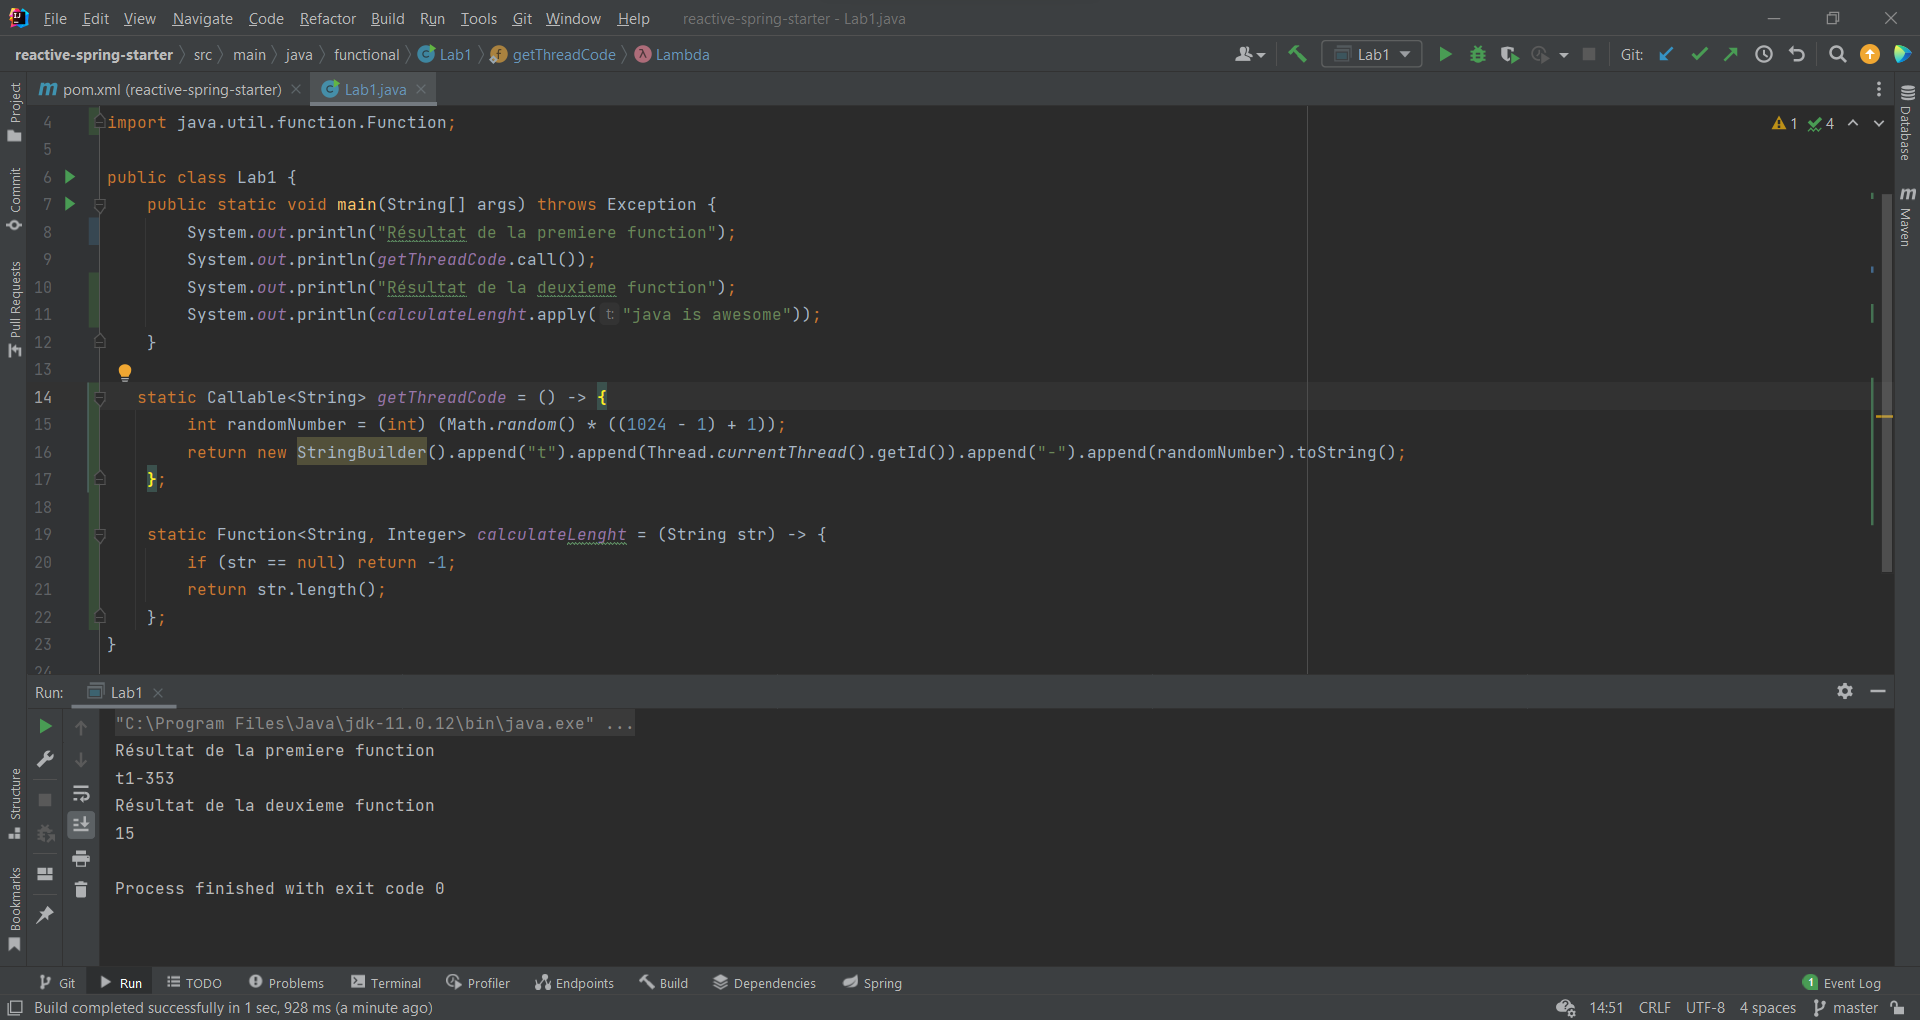
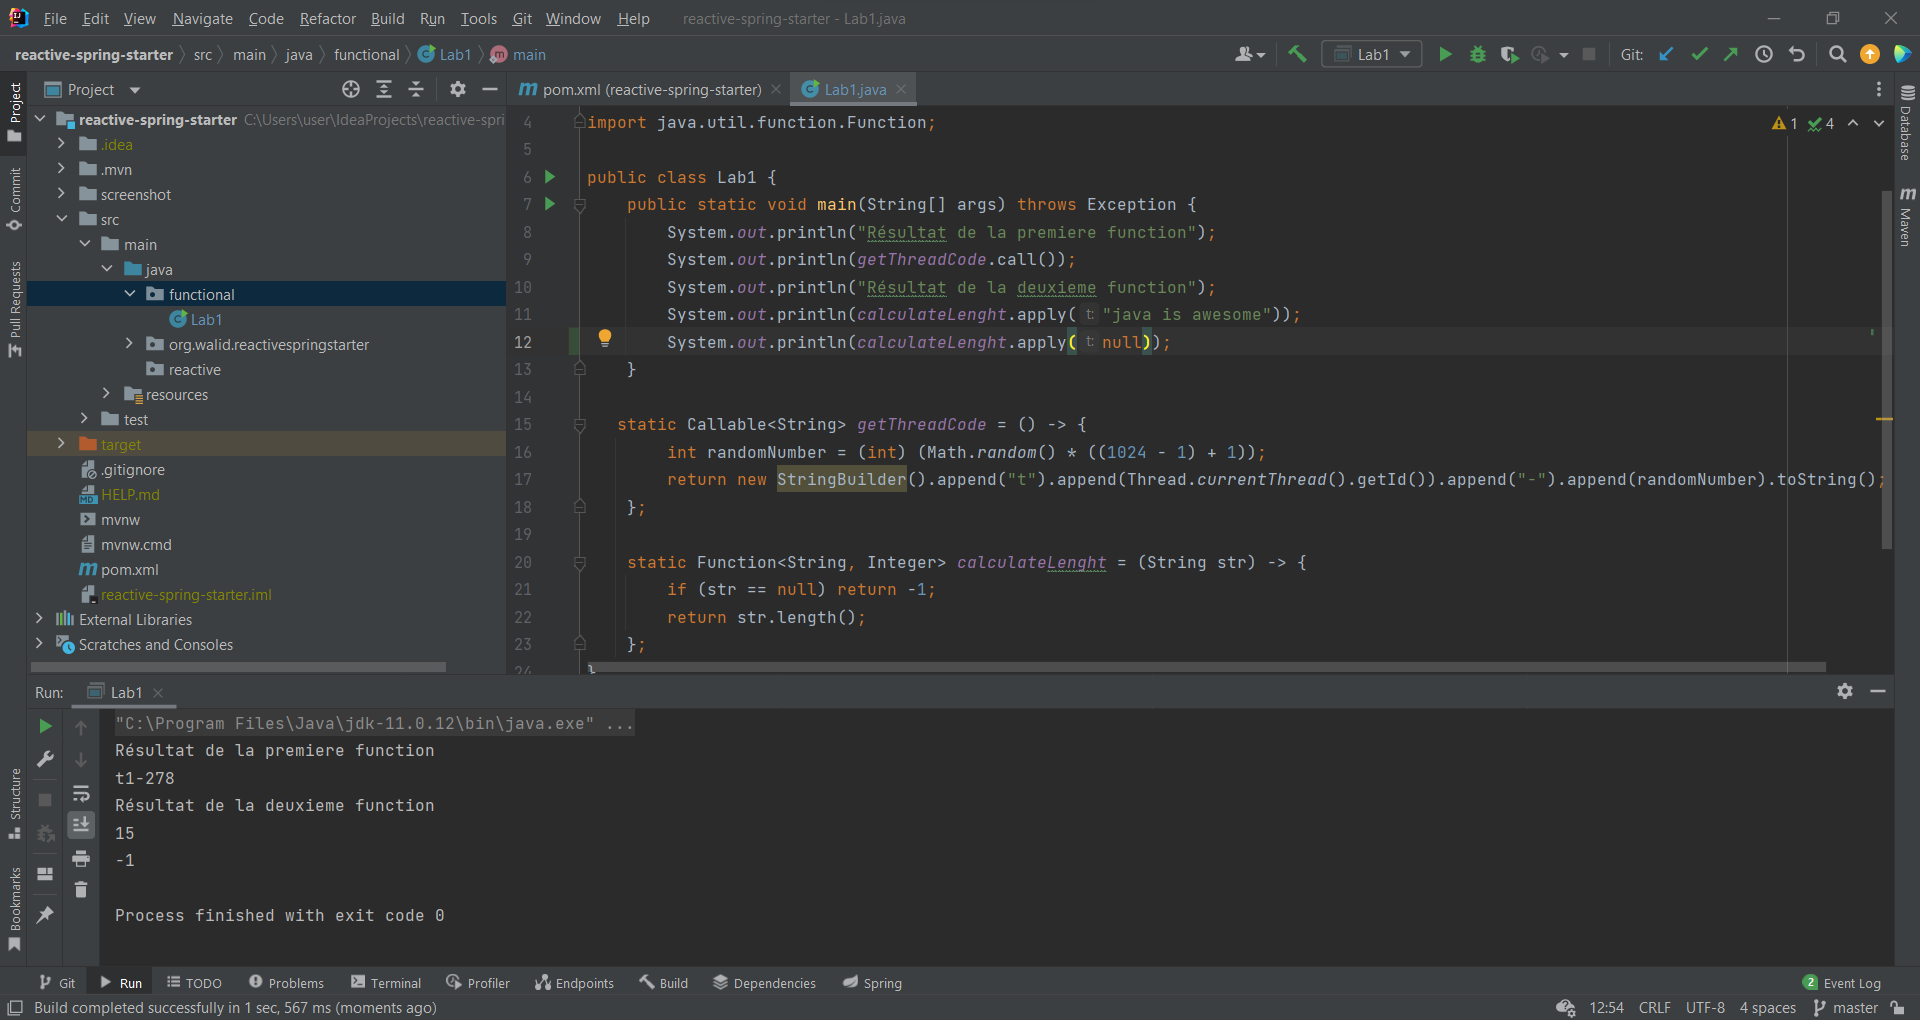
methode that return current thread code.

diff --git a/src/main/java/functional/lab2/Employee.java b/src/main/java/functional/lab2/Employee.java
@@ -1,0 +1,35 @@
+package functional.lab2;
+
+import lombok.Getter;
+import lombok.Setter;
+import lombok.ToString;
+
+@Getter
+@Setter
+@ToString
+public class Employee {
+
+    private String name;
+    private Integer salary;
+
+    public Employee(String name, Integer salary) {
+        this.name = name;
+        this.salary = salary;
+    }
+
+    static IEmployeeFactory factory = (String name, Integer salary) -> new Employee(name, salary);
+
+    static SalaryIncrease salaryIncrease = (Employee employee, Integer amount) -> {
+        employee.setSalary(employee.salary + amount);
+        return employee.salary;
+    };
+
+    public static void main(String[] args) {
+        var adem = factory.create("Adem", 3000);
+        System.out.println(adem);
+        var newSalary = salaryIncrease.increase(adem, 1200);
+        System.out.println(adem);
+        System.out.println("New salary of adem " + newSalary);
+    }
+
+}

diff --git a/src/main/java/functional/Lab1.java b/src/main/java/functional/Lab1.java
@@ -9,6 +9,7 @@ public class Lab1 {
         System.out.println(getThreadCode.call());
         System.out.println("Résultat de la deuxieme function");
         System.out.println(calculateLenght.apply("java is awesome"));
+        System.out.println(calculateLenght.apply(null));
     }
 
    static Callable<String> getThreadCode = () -> {

diff --git a/src/main/java/functional/lab2/SalaryIncrease.java b/src/main/java/functional/lab2/SalaryIncrease.java
@@ -1,0 +1,7 @@
+package functional.lab2;
+
+@FunctionalInterface
+public interface SalaryIncrease {
+    Integer increase(Employee employee, Integer amount);
+
+}

diff --git a/src/main/java/functional/lab2/IEmployeeFactory.java b/src/main/java/functional/lab2/IEmployeeFactory.java
@@ -1,0 +1,6 @@
+package functional.lab2;
+
+@FunctionalInterface
+public interface IEmployeeFactory {
+    Employee create(String name, Integer salary);
+}
